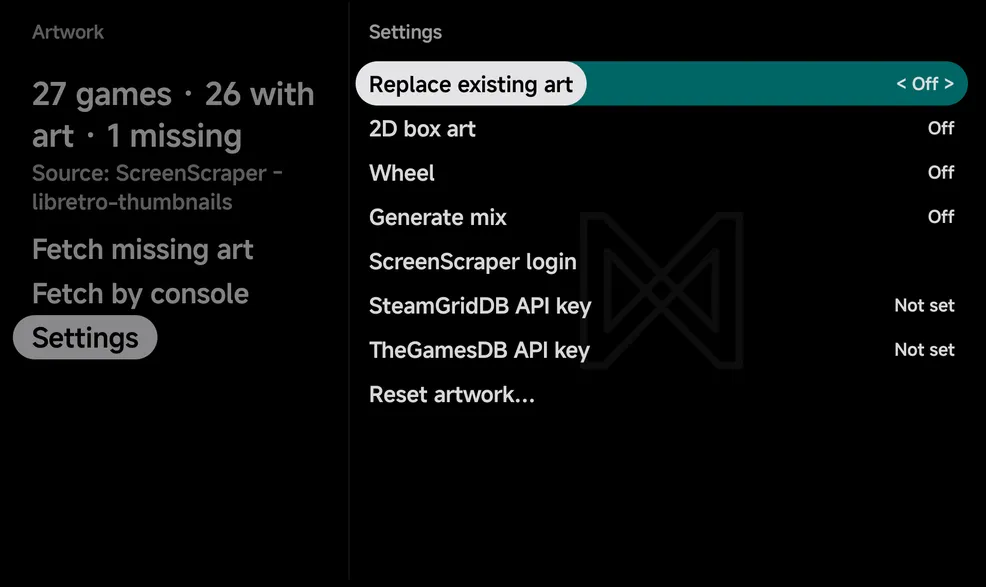
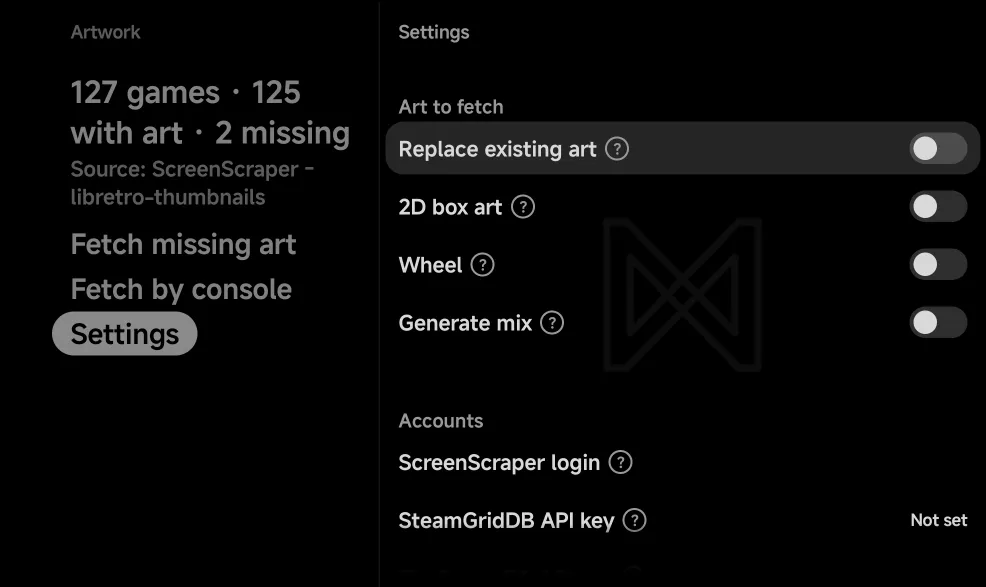
RetroAchievements and Artwork settings: touch rows (#41)

diff --git a/docs/mobile/artwork.md b/docs/mobile/artwork.md
@@ -15,7 +15,7 @@ missing**, and these rows:
 | **Fetch missing art** | Fetches art for every game that has none. Reads **Fetch all art** when **Replace existing art** is on. |
 | **Fetch by console** | Fetches art for one console. |
 | **Progress** | Shows the current or last fetch. Only shown once a fetch has run, until you choose **Done** there. |
-| **Settings** | What to fetch, your ScreenScraper login, the SteamGridDB and TheGamesDB keys, and **Reset artwork…**. See [Settings](#settings). |
+| **Settings** | What to fetch, your ScreenScraper login, the SteamGridDB and TheGamesDB keys, and **Reset artwork**. See [Settings](#settings). |
 
 ??? info "More detail"
 
@@ -159,9 +159,12 @@ art**. The app fetches that game straight away. `B` cancels. See
 ## Settings
 
 **Artwork → Settings** holds what to fetch, your accounts and keys, and
-Reset artwork, on one page.
+Reset artwork, on one page, in groups: **Art to fetch**, **Accounts**, then
+**Reset artwork**. Its rows work like [Settings](settings.md#buttons): the
+On/Off rows are switches, and the ? icon or `X` **Info** shows a row's full
+description.
 
-![Artwork → Settings beside the Artwork page: Replace existing art, 2D box art, Wheel and Generate mix, the ScreenScraper login row, the SteamGridDB and TheGamesDB keys, and Reset artwork…](../assets/screenshots/mobile/artwork-settings.webp){ .nx-wide }
+![Artwork → Settings beside the Artwork page: the Art to fetch group with Replace existing art, 2D box art, Wheel and Generate mix as switches, then the Accounts group with ScreenScraper login and the SteamGridDB API key](../assets/screenshots/mobile/artwork-settings.webp){ .nx-wide }
 
 | Row | Default | What it does |
 | --- | --- | --- |
@@ -172,17 +175,19 @@ Reset artwork, on one page.
 | **ScreenScraper login** / **ScreenScraper logout** | — | Log in to ScreenScraper, or log out. |
 | **SteamGridDB API key** | Not set | `A` asks for the key. |
 | **TheGamesDB API key** | Not set | `A` asks for the key. |
-| **Reset artwork…** | — | Delete art the app fetched. See [Reset artwork](#reset-artwork). |
+| **Reset artwork** | — | Delete art the app fetched. See [Reset artwork](#reset-artwork). |
 
 ??? info "More detail"
 
-    - `LEFT` / `RIGHT` or `A` switch the On/Off rows.
-    - Once logged in, the ScreenScraper row shows today's requests, such as
-      `312 / 20,000 today`.
+    - `A`, `LEFT` / `RIGHT` or a tap on the row switch the On/Off rows.
+    - While **Generate mix** is on, **Wheel** is dimmed and reads **Needed by
+      Generate mix**.
+    - Once logged in, the ScreenScraper row shows today's requests under its
+      name, such as `312 / 20,000 today`.
     - The key rows read **Set** or **Not set**. **Remove SteamGridDB key** and
       **Remove TheGamesDB key** show once a key is set.
     - Once your TheGamesDB key is set, a **TheGamesDB** row shows the requests
-      left, such as `896 left this month`.
+      left under its name, such as `896 left this month`.
 
 ### Accounts and keys
 
@@ -206,7 +211,7 @@ Choose **ScreenScraper login** to sign in, or a key row to enter a key.
 
 ### Reset artwork
 
-**Reset artwork…** opens a list: **All**, then each console. Pick one, and
+**Reset artwork** opens a list: **All**, then each console. Pick one, and
 the app asks **Delete fetched art for *console*? Art you added yourself is
 kept.** **Delete** removes it and says how many files went.
 

diff --git a/docs/mobile/retroachievements.md b/docs/mobile/retroachievements.md
@@ -33,16 +33,19 @@ account.
 1. Open **Tools → RetroAchievements → Settings**.
 2. Choose **Sign in**, enter your **Username** and **Password**, and choose
    **Sign in**.
-3. **Status** shows **Signed in as** your username, and **Enable
-   achievements** turns **On**.
+3. The line under **Sign out** shows **Signed in as** your username, and
+   **Enable achievements** turns **On**.
 
 First-run setup asks you to sign in too, and can start
 [Download all game data](#downloading-all-game-data) for you. See
 [Getting Started](getting-started.md).
 
-![RetroAchievements → Settings, signed out: Sign in at the top, Status Not signed in, and Enable achievements and Download all game data dimmed](../assets/screenshots/mobile/ra-settings.webp){ .nx-wide }
+![RetroAchievements → Settings beside the RetroAchievements page: the Account group with Sign out and Signed in as kotaksempit under it, Enable achievements on, Download all game data with 137 games cached, then the Notifications group](../assets/screenshots/mobile/ra-settings.webp){ .nx-wide }
 
-The settings page also has:
+The page's rows sit in groups: **Account**, **Notifications**,
+**Achievements** and **Reset**. They work like
+[Settings](settings.md#buttons): switches, values with `›`, and the ? icon
+or `X` **Info** for a row's full description. The page also has:
 
 | Row | Default | What it does |
 | --- | --- | --- |
@@ -66,13 +69,17 @@ The settings page also has:
     - The app keeps only the sign-in token RetroAchievements returns, not your
       password.
     - Signed out, **Enable achievements** and **Download all game data** are
-      dimmed.
-    - **Download all game data** shows how many games are cached, such as
-      `48 games cached`.
-    - `A` changes a value. On **Notification duration**, **Progress duration**
-      and **Achievement sort order**, `LEFT` / `RIGHT` work too. On touch,
-      with no controller and no on-screen pad, a tap on one of these three
-      opens a list of its values to pick from.
+      dimmed and read **Needs a sign-in**.
+    - If a sign-in fails, the line under **Sign in** shows the error.
+    - **Download all game data** shows how many games are cached under its
+      name, such as `48 games cached`.
+    - **Enable achievements** and **Show notifications** are switches: `A` or
+      a tap flips them.
+    - On **Notification duration**, **Progress duration** and **Achievement
+      sort order**, `A` or a tap opens a list of the values to pick from, and
+      `LEFT` / `RIGHT` step the value. The durations stop at their ends.
+    - The page never opens with **Sign out** highlighted, so a stray `A`
+      can't sign you out.
     - **Sign out** asks to confirm too. Signing out turns achievements off,
       and signing in again needs your password. Your unsynced unlocks, game
       data and badges stay.
